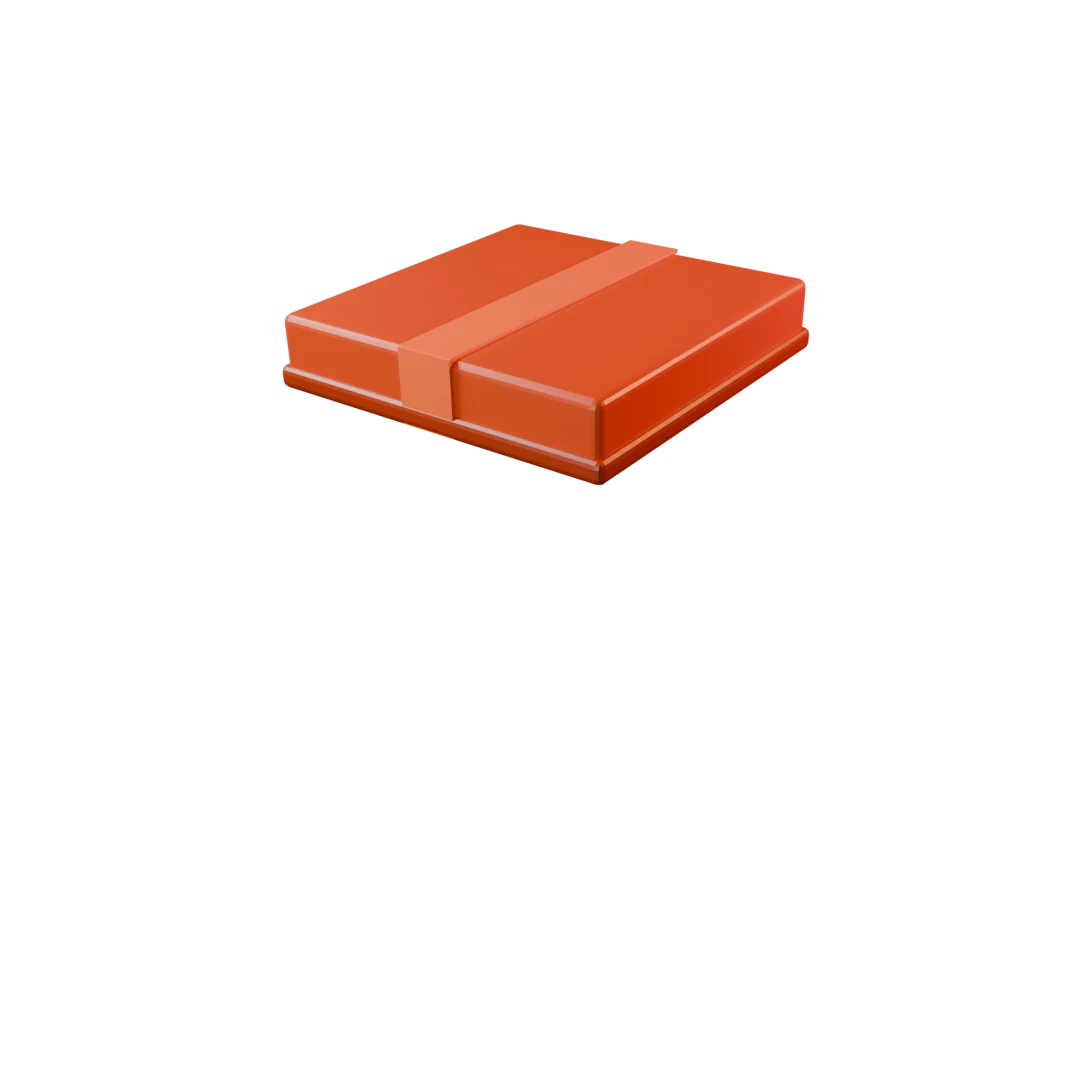
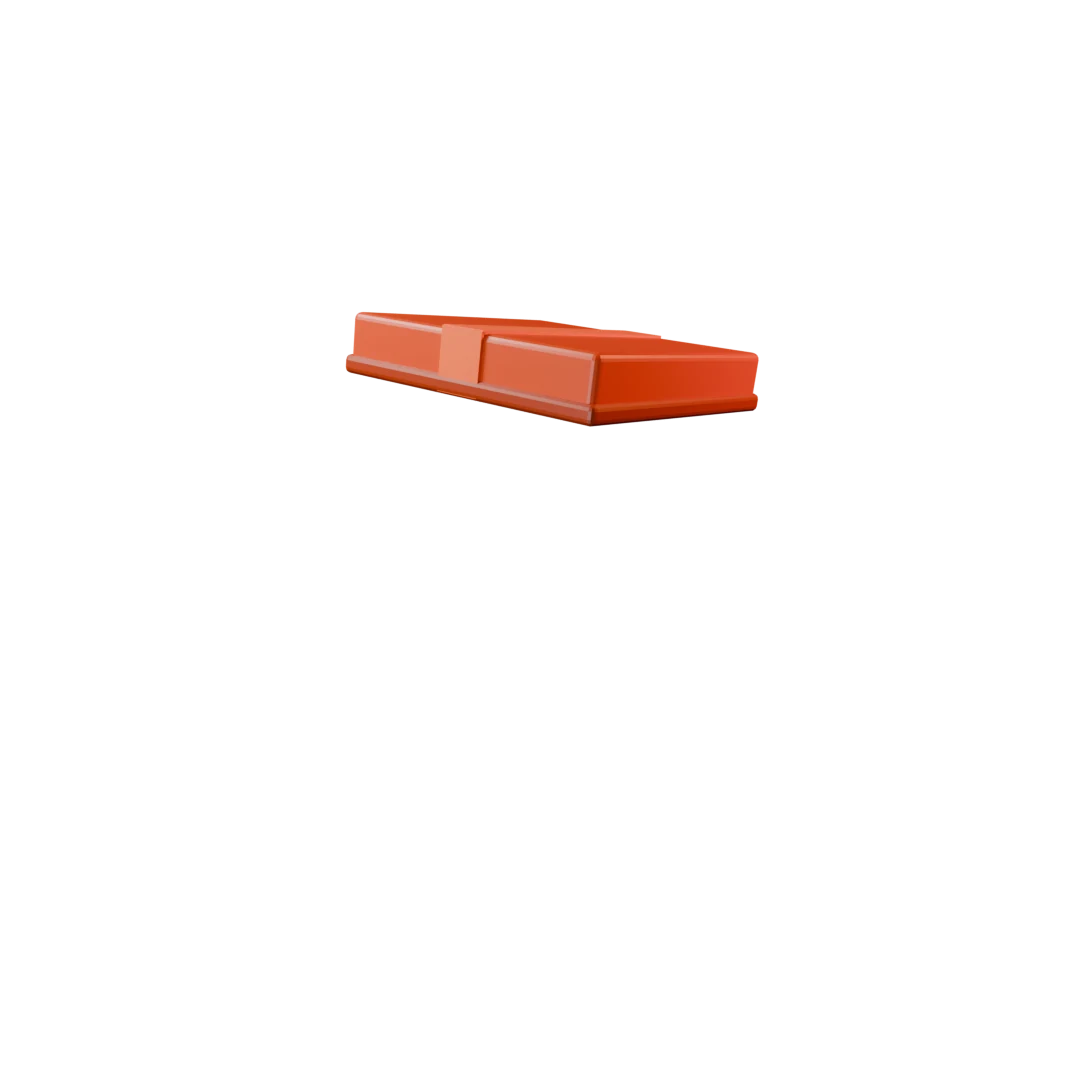
Intro lid flight rework: lid flies up-right with underside visible (per reference), wide-framing renders + 130% lid layer

Changed region(s): [[0.2444, 0.1833, 0.7639, 0.4583]]

diff --git a/index.html b/index.html
@@ -340,7 +340,7 @@
   .intro-fig img{display:block;width:100%;height:100%}
   .ib-open{position:relative;z-index:1}
   .ib-lidwrap{position:absolute;inset:0;z-index:2;perspective:1150px}
-  .ib-lid{display:block}
+  .intro-fig img.ib-lid{display:block;position:relative;left:-15%;top:-15%;width:130%;height:130%;max-width:none}
   .intro-chip{
     position:absolute;left:50%;top:50%;z-index:5;cursor:pointer;font:inherit;
     transform:translate(-50%,-50%) scale(.3);opacity:0;
